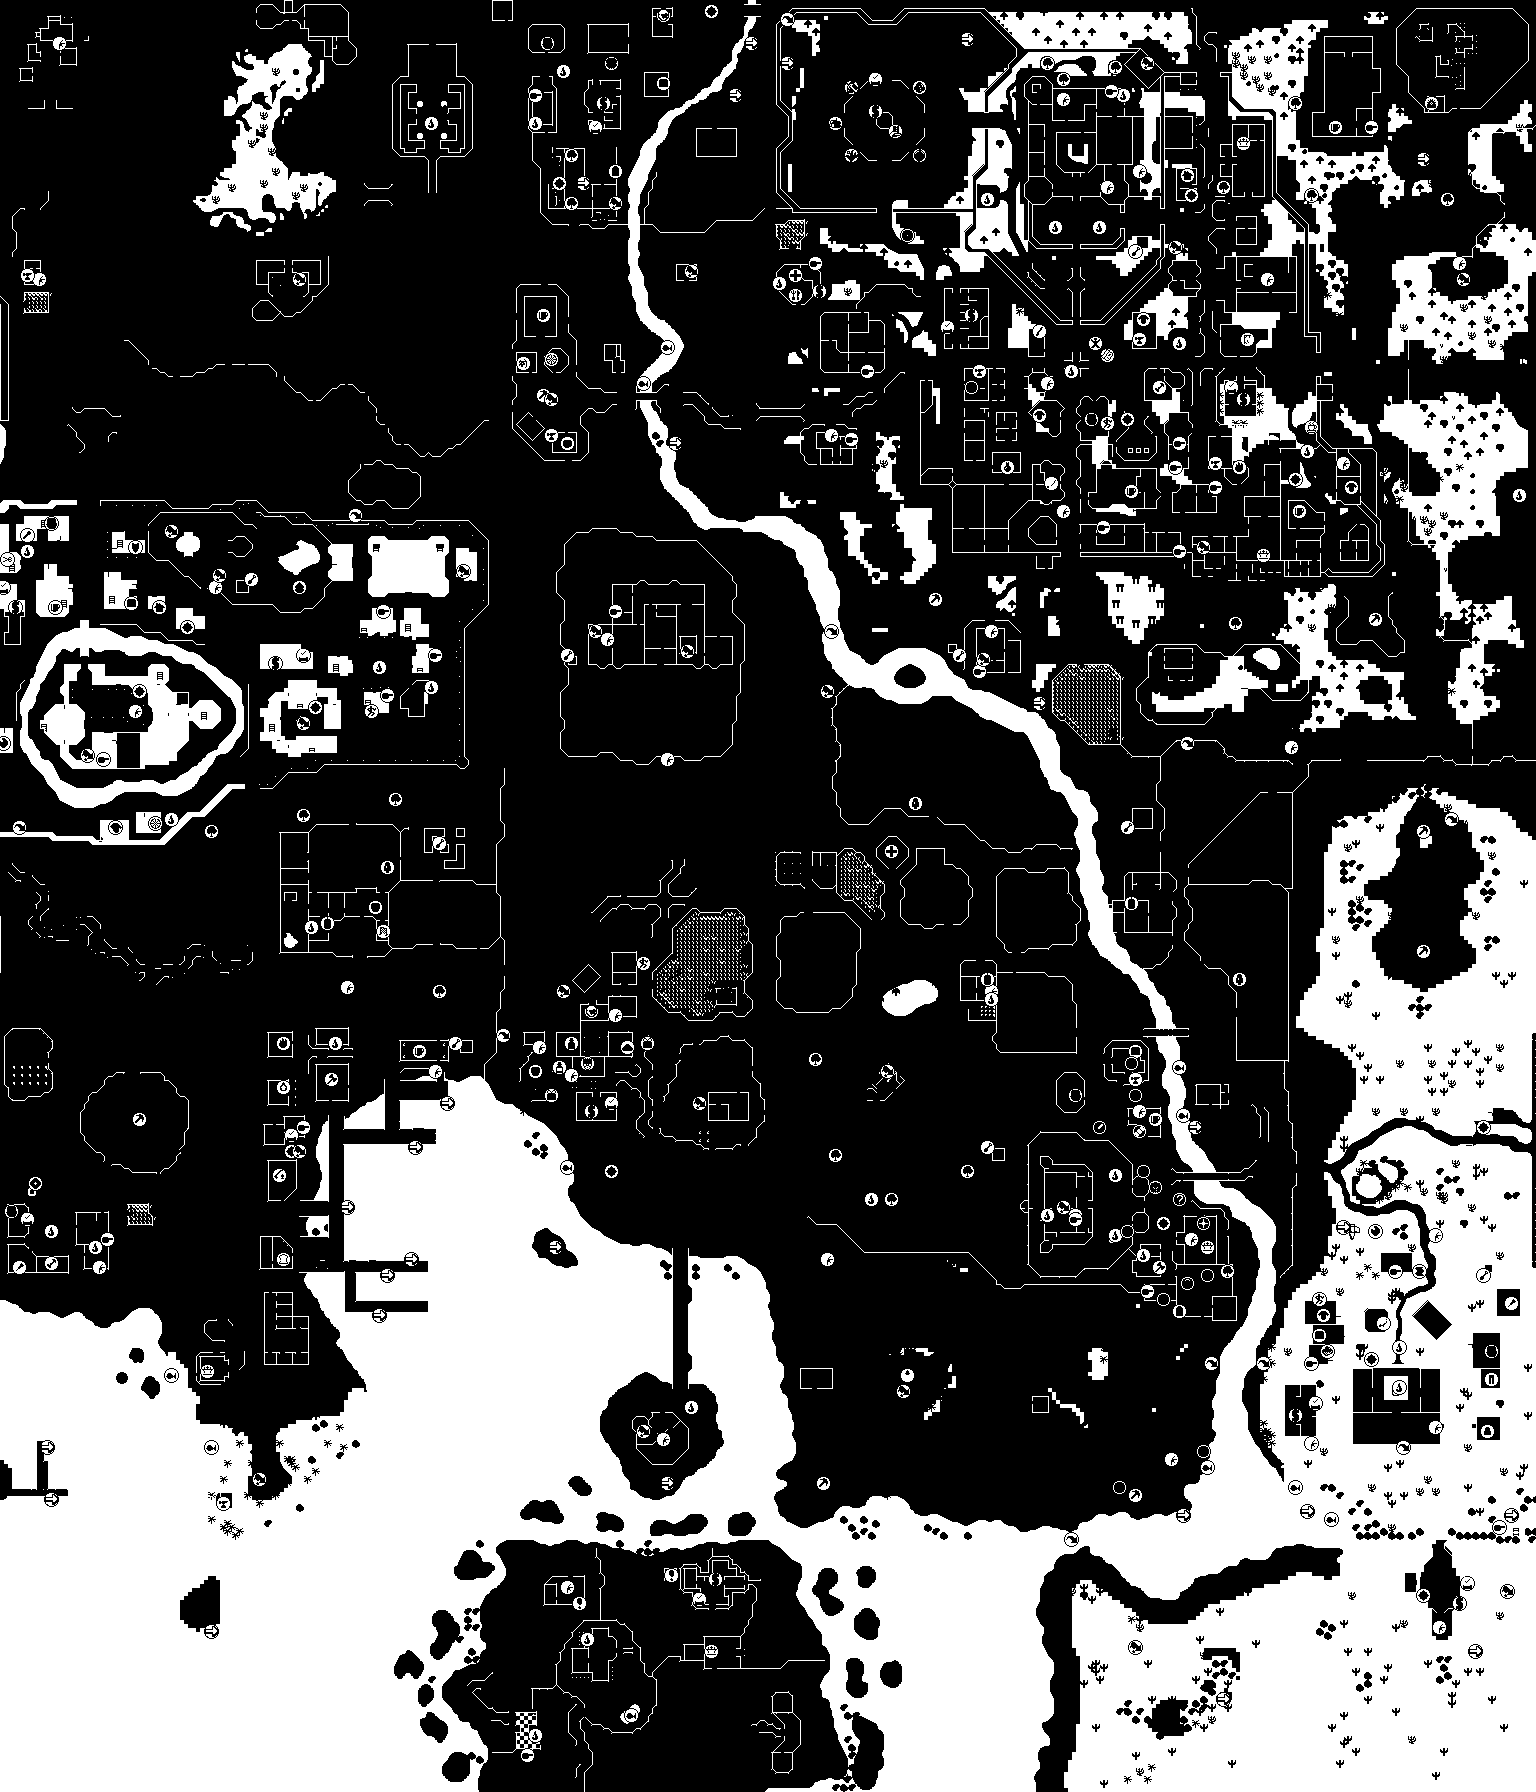
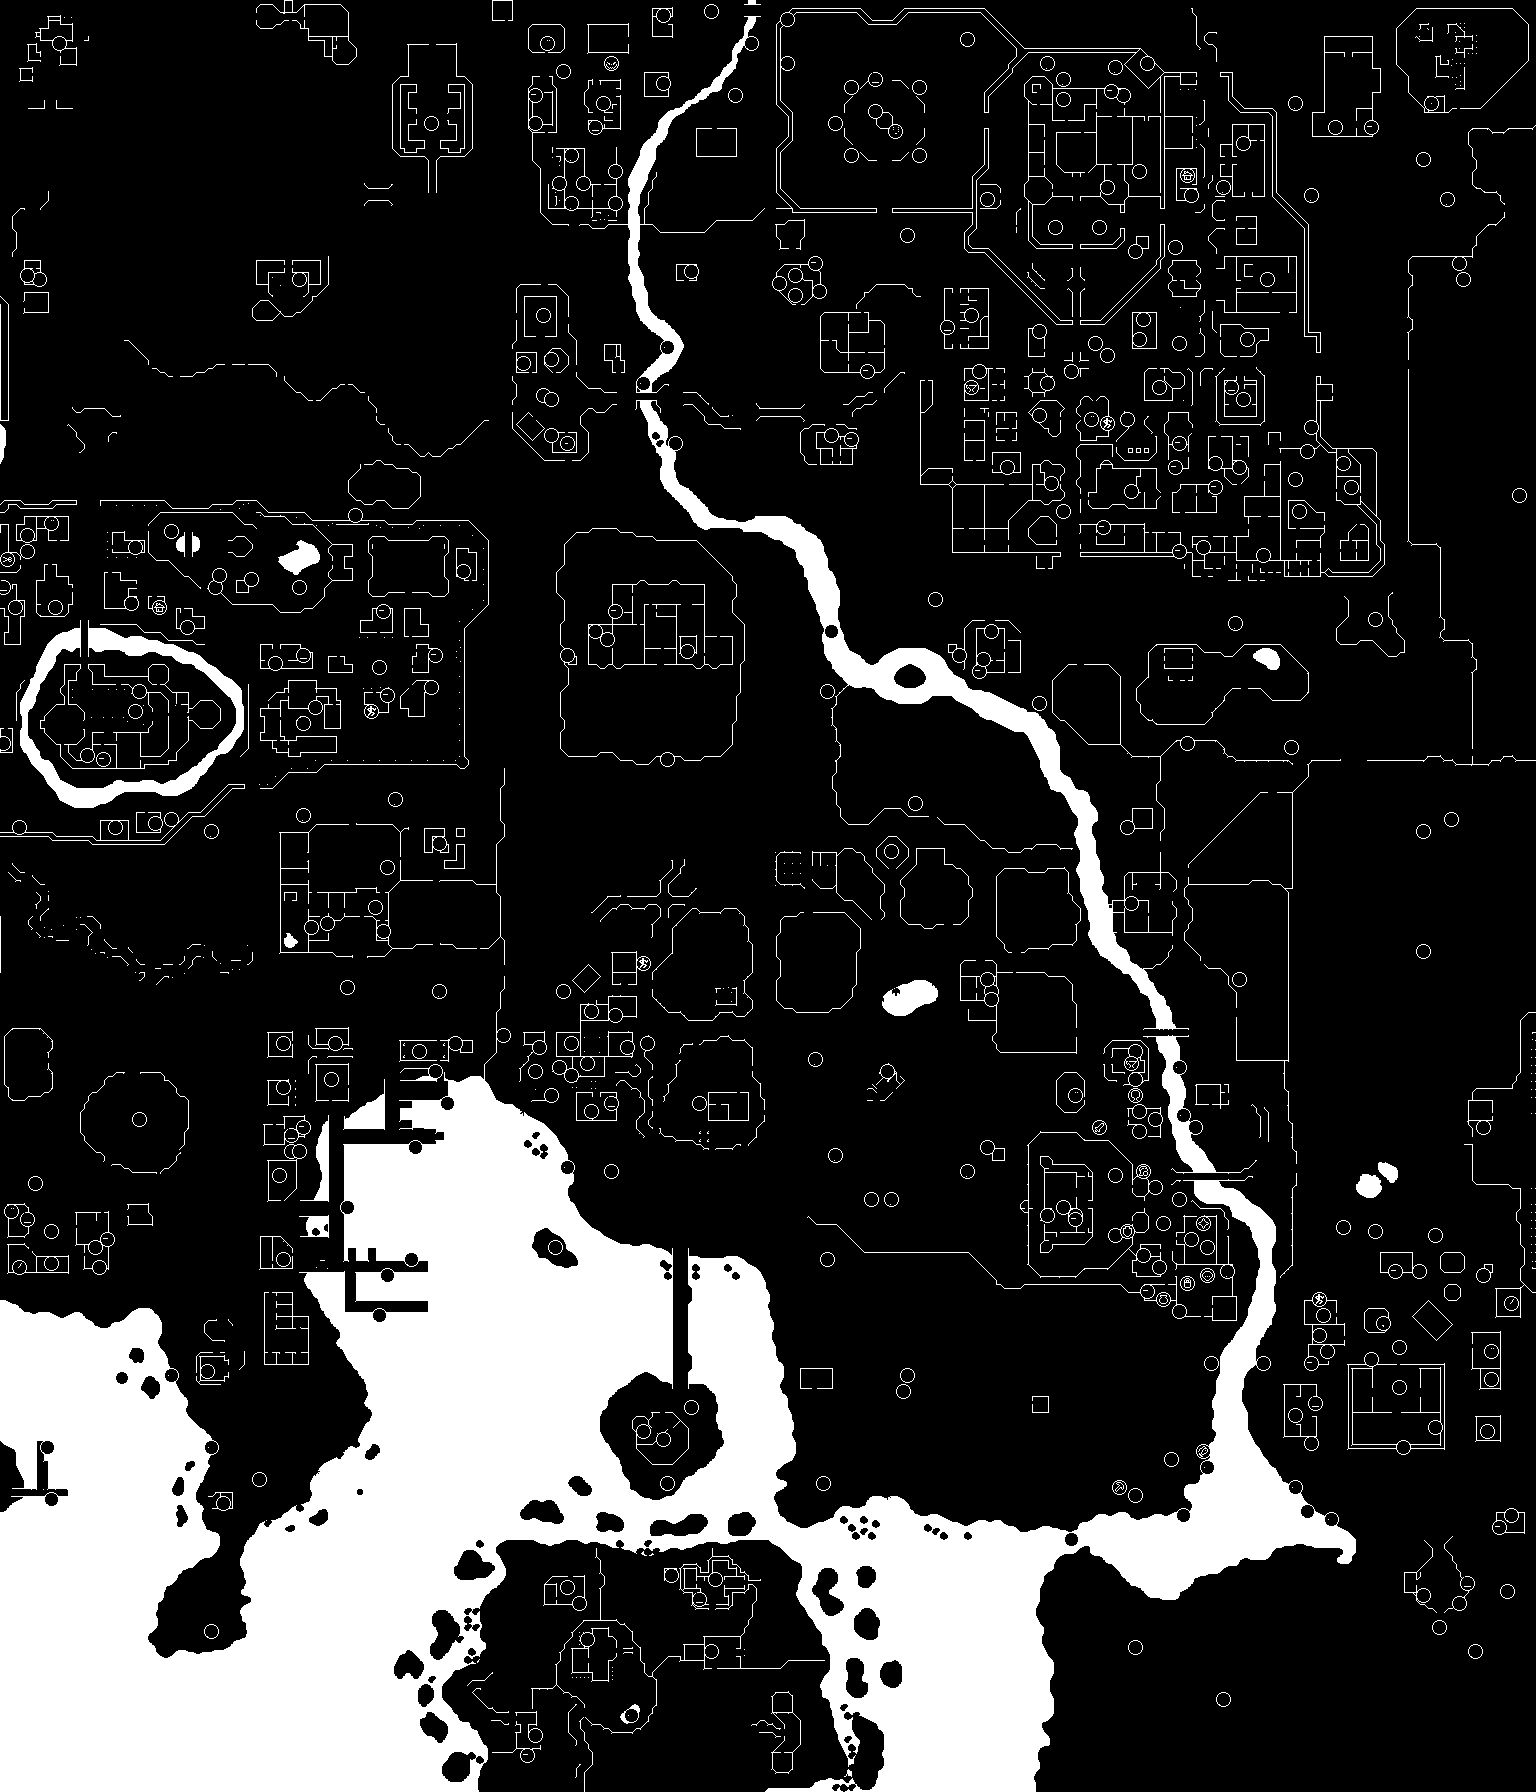
edited mask color variables

diff --git a/src/Simulation/Environment/Grids/Path_grid_gen.py b/src/Simulation/Environment/Grids/Path_grid_gen.py
@@ -31,19 +31,33 @@ def gen_path_grid(world_image, path_image_path=None):
 
     # --> Filter image colors
     # -> Create stone_road mask
-    stone_road_low = np.asarray([0, 0, 0])
-    stone_road_high = np.asarray([360, 50, 100])
+    stone_road_low = np.asarray([0, 0, 80])
+    stone_road_high = np.asarray([0, 0, 80])
 
     stone_road_mask = cv2.inRange(img_hsv, stone_road_low, stone_road_high)
 
-    # -> Create dirt_road mask
-    dirt_road_low = np.asarray([0, 0, 0])
-    dirt_road_high = np.asarray([180, 21, 50])
+    # -> Create desert_road mask
+    desert_road_low = np.asarray([26, 122, 130])
+    desert_road_high = np.asarray([26, 122, 130])
 
-    dirt_road_mask = cv2.inRange(img_hsv, dirt_road_low, dirt_road_high)
+    desert_road_mask = cv2.inRange(img_hsv, desert_road_low, desert_road_high)
+
+    # -> Create dirt_road_1 mask
+    dirt_road_1_low = np.asarray([20, 51, 120])
+    dirt_road_1_high = np.asarray([20, 51, 120])
+
+    dirt_road_1_mask = cv2.inRange(img_hsv, dirt_road_1_low, dirt_road_1_high)
+
+    # -> Create dirt_road_2 mask
+    dirt_road_2_low = np.asarray([0, 0, 120])
+    dirt_road_2_high = np.asarray([255, 255, 120])
+
+    dirt_road_2_mask = cv2.inRange(img_hsv, dirt_road_2_low, dirt_road_2_high)
 
     # -> Add masks
-    mask = cv2.bitwise_or(stone_road_mask, dirt_road_mask)
+    mask = cv2.bitwise_or(stone_road_mask, desert_road_mask)
+    mask = cv2.bitwise_or(dirt_road_1_mask, mask)
+    mask = cv2.bitwise_or(dirt_road_2_mask, mask)
 
     # --> Save obstacle image if path provided
     if path_image_path is not None:

diff --git a/src/Simulation/Environment/Grids/Obstacle_grid_gen.py b/src/Simulation/Environment/Grids/Obstacle_grid_gen.py
@@ -30,20 +30,27 @@ def gen_obstacle_grid(world_image, obstacle_image_path=None):
     img_hsv = cv2.cvtColor(world_image, cv2.COLOR_BGR2HSV)
 
     # --> Filter image colors
-    # -> Create Walls/icon mask
-    walls_low = np.asarray([0, 0, 150])
-    walls_high = np.asarray([150, 150, 255])
+    # -> Create Walls mask
+    walls_low = np.asarray([0, 0, 255])
+    walls_high = np.asarray([0, 0, 255])
 
     walls_mask = cv2.inRange(img_hsv, walls_low, walls_high)
 
     # -> Create Water mask
-    water_low = np.asarray([50, 50, 50])
-    water_high = np.asarray([118, 143, 193])
+    water_low = np.asarray([110, 99, 193])
+    water_high = np.asarray([110, 99, 193])
 
     water_mask = cv2.inRange(img_hsv, water_low, water_high)
 
+    # -> Create Icons mask
+    icons_low = np.asarray([120, 255, 1])
+    icons_high = np.asarray([120, 255, 1])
+
+    icons_mask = cv2.inRange(img_hsv, icons_low, icons_high)
+
     # -> Add masks
     mask = cv2.bitwise_or(walls_mask, water_mask)
+    mask = cv2.bitwise_or(icons_mask, mask)
 
     # --> Save obstacle image if path provided
     if obstacle_image_path is not None:

diff --git a/src/Simulation/Environment/Environment.py b/src/Simulation/Environment/Environment.py
@@ -46,8 +46,8 @@ class Environment:
             sys.exit()
 
         # --> Setup obstacle grid
-        obstacle_grid = gen_obstacle_grid(world_image=world_image,
-                                          obstacle_image_path=obstacle_image_path)
+        # obstacle_grid = gen_obstacle_grid(world_image=world_image,
+        #                                   obstacle_image_path=obstacle_image_path)
 
         # --> Setup path grid
         path_grid = gen_path_grid(world_image=world_image,
